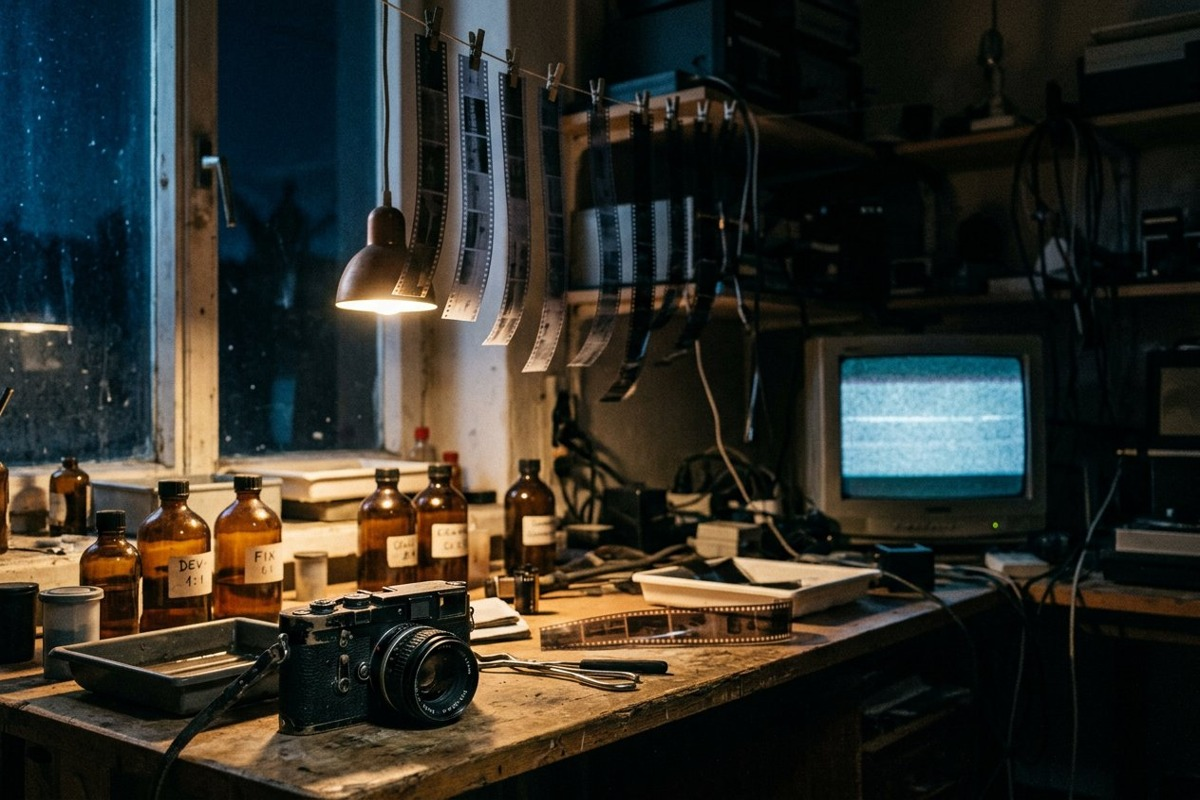
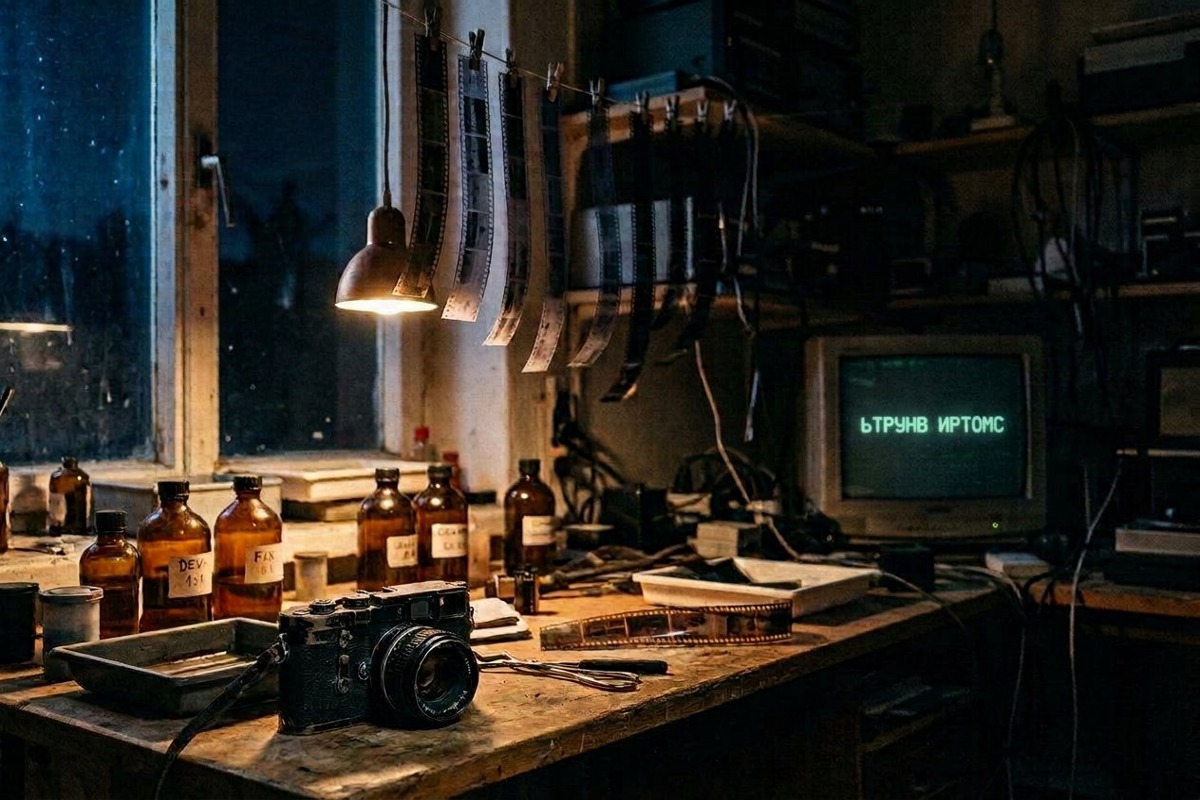
N1: надпись на экране монитора, в EXIF-комментарии — искать secret code.
Текст ЬТРУНВ ИРТОМС на CRT; после генерации снова вешаются 255,217 и хвост JPEG.

diff --git a/tools/make_quest_assets.py b/tools/make_quest_assets.py
@@ -144,6 +144,10 @@ def make_n1():
         "0th": {
             piexif.ImageIFD.Artist: "255,217".encode("ascii"),
         },
+        "Exif": {
+            piexif.ExifIFD.UserComment: b"UNICODE\x00\x00"
+            + 'Ищи "secret code" в битах'.encode("utf-16le"),
+        },
     }
     img.save(jpg_path, "JPEG", quality=92, exif=piexif.dump(exif_dict))
     tail = b"\nsecret code: " + msg.encode("ascii") + b"\n"

diff --git a/doc/QUEST_WALKTHROUGH.md b/doc/QUEST_WALKTHROUGH.md
@@ -37,7 +37,7 @@ LSB и цветовые каналы **нет** (это уже вход из SIG
 ### Ответ 1 → `СМОТРИ ВНУТРЬ`
 
 1. Скачай документ, открой как картинку.
-2. Найди спрятанную надпись, прочитай задом наперёд.
+2. На экране монитора зелёным: `ЬТРУНВ ИРТОМС` — задом наперёд.
 3. В бота: **СМОТРИ ВНУТРЬ**
 
 ### Ответ 2 → `255,217` (или `FFD9`)
